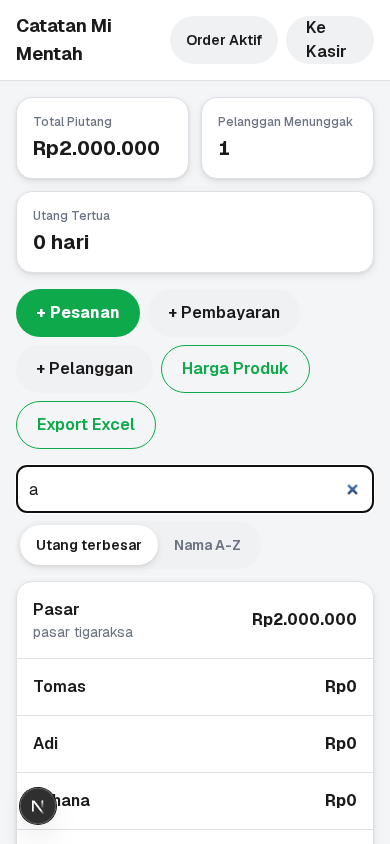
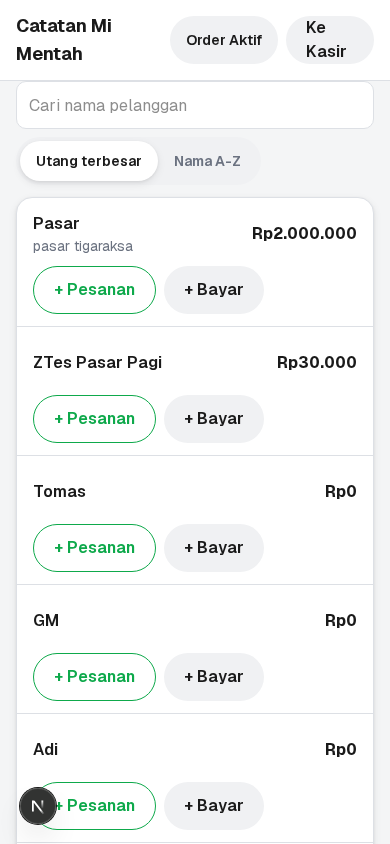
Note: shortcut Mie Pasar, preset kg & nominal, tombol cepat di kartu
- Mie Pasar = Mi Keriting Rp14.000/kg, bertahan saat pelanggan diganti
- Preset 5/10/15/20 kg; preset 50rb-500rb dan Lunas penuh (sisa saldo)
- Kartu pelanggan aktif punya + Pesanan / + Bayar langsung

diff --git a/src/components/note/new-order-form.tsx b/src/components/note/new-order-form.tsx
@@ -6,7 +6,7 @@ import Link from "next/link";
 import type { MieCustomerRow } from "@/lib/mie/get-mie-customers";
 import type { OrderAktifIndicator } from "@/lib/orders/get-order-aktif-indicator";
 import type { MieProductType } from "@/lib/mie/types";
-import { MIE_FIXED_PRODUCT_TYPES, MIE_PRODUCT_LABEL } from "@/lib/mie/types";
+import { MIE_FIXED_PRODUCT_TYPES, MIE_KG_PRESETS, MIE_PASAR_PRESET, MIE_PRODUCT_LABEL } from "@/lib/mie/types";
 import { createMieOrder, getMieAutofillPrice } from "@/app/note/actions";
 import { LinkButton } from "@/components/ui/link-button";
 import { Card } from "@/components/ui/card";
@@ -33,6 +33,10 @@ export function NewOrderForm({
   const [kg, setKg] = useState("");
   const [pricePerKg, setPricePerKg] = useState<number | "">("");
   const [priceManuallyEdited, setPriceManuallyEdited] = useState(false);
+  // While the "Mie Pasar" preset is on, its fixed price must survive a
+  // customer change (the owner often taps the preset first, then picks the
+  // customer) — the per-customer autofill stays out of the way.
+  const [pasarPreset, setPasarPreset] = useState(false);
   const [date, setDate] = useState(todayDateStr());
   const [note, setNote] = useState("");
   const [saving, setSaving] = useState(false);
@@ -54,7 +58,15 @@ export function NewOrderForm({
     // eslint-disable-next-line react-hooks/exhaustive-deps
   }, [customerId, productType]);
 
+  function applyPasarPreset() {
+    setProductType(MIE_PASAR_PRESET.productType);
+    setPricePerKg(MIE_PASAR_PRESET.pricePerKg);
+    setPriceManuallyEdited(true);
+    setPasarPreset(true);
+  }
+
   function handleProductTypeChange(next: MieProductType) {
+    setPasarPreset(false);
     setProductType(next);
     setPriceManuallyEdited(false);
     if (next === "CUSTOM") setPricePerKg("");
@@ -102,6 +114,27 @@ export function NewOrderForm({
 
       <div className="flex-1 overflow-y-auto p-4">
         <div className="mx-auto flex max-w-md flex-col gap-3">
+          <button
+            type="button"
+            onClick={applyPasarPreset}
+            aria-pressed={pasarPreset}
+            className={cn(
+              "rounded-card flex min-h-16 w-full items-center justify-between gap-3 border-2 px-4 py-3 text-left",
+              pasarPreset ? "border-primary bg-primary-soft" : "border-border bg-surface",
+            )}
+          >
+            <span className="flex flex-col">
+              <span className="text-ink text-base font-bold">Mie Pasar</span>
+              <span className="text-ink-muted text-sm">
+                {MIE_PRODUCT_LABEL[MIE_PASAR_PRESET.productType]} · Rp
+                {MIE_PASAR_PRESET.pricePerKg.toLocaleString("id-ID")}/kg
+              </span>
+            </span>
+            <span className={cn("text-sm font-semibold", pasarPreset ? "text-primary-strong" : "text-primary")}>
+              {pasarPreset ? "Dipakai ✓" : "Pakai"}
+            </span>
+          </button>
+
           <Card padded className="flex flex-col gap-3">
             {customers.length === 0 ? (
               <p className="text-ink-muted text-sm">
@@ -118,7 +151,7 @@ export function NewOrderForm({
                   value={customerId}
                   onChange={(e) => {
                     setCustomerId(e.target.value);
-                    setPriceManuallyEdited(false);
+                    if (!pasarPreset) setPriceManuallyEdited(false);
                   }}
                   className="rounded-input border-border h-12 border px-3 text-base"
                 >
@@ -192,11 +225,29 @@ export function NewOrderForm({
                   onChange={(v) => {
                     setPricePerKg(v);
                     setPriceManuallyEdited(true);
+                    if (v !== MIE_PASAR_PRESET.pricePerKg) setPasarPreset(false);
                   }}
                   placeholder="0"
                   className="h-12 text-base"
                 />
               </label>
+            </div>
+
+            <div className="flex flex-wrap gap-2" role="group" aria-label="Pilih cepat jumlah kg">
+              {MIE_KG_PRESETS.map((preset) => (
+                <button
+                  key={preset}
+                  type="button"
+                  onClick={() => setKg(String(preset))}
+                  aria-pressed={kgValid && kgNumber === preset}
+                  className={cn(
+                    "rounded-pill h-12 min-w-16 px-4 text-base font-semibold",
+                    kgValid && kgNumber === preset ? "bg-primary text-white" : "bg-muted text-ink",
+                  )}
+                >
+                  {preset} kg
+                </button>
+              ))}
             </div>
 
             {kgValid && pricePerKg !== "" && (

diff --git a/src/components/note/new-payment-form.tsx b/src/components/note/new-payment-form.tsx
@@ -13,6 +13,8 @@ import { Button } from "@/components/ui/button";
 import { RupiahInput } from "@/components/ui/rupiah-input";
 import { OrderAktifButton } from "@/components/ui/order-aktif-button";
 import { LateOrderBanner } from "@/components/ui/late-order-banner";
+import { cn } from "@/components/ui/cn";
+import { MIE_PAYMENT_PRESETS } from "@/lib/mie/types";
 
 // Payments are deliberately NOT tied to a specific order — picking a
 // customer and typing an amount is the whole flow (see CLAUDE.md-worthy
@@ -30,6 +32,35 @@ export function NewPaymentForm({
   const router = useRouter();
   const [customerId, setCustomerId] = useState(initialCustomerId ?? customers[0]?.id ?? "");
   const [amount, setAmount] = useState<number | "">("");
+  // "Lunas penuh" follows the selected customer: switching customer while
+  // it's on re-fills that customer's own remaining balance.
+  const [payFull, setPayFull] = useState(false);
+
+  const balanceOf = (id: string) => customers.find((c) => c.id === id)?.balance ?? 0;
+  const selectedBalance = balanceOf(customerId);
+
+  function chooseCustomer(id: string) {
+    setCustomerId(id);
+    if (payFull) {
+      const next = balanceOf(id);
+      if (next > 0) setAmount(next);
+      else {
+        setAmount("");
+        setPayFull(false);
+      }
+    }
+  }
+
+  function choosePreset(value: number) {
+    setAmount(value);
+    setPayFull(false);
+  }
+
+  function chooseFull() {
+    if (selectedBalance <= 0) return;
+    setAmount(selectedBalance);
+    setPayFull(true);
+  }
   const [date, setDate] = useState(todayDateStr());
   const [note, setNote] = useState("");
   const [saving, setSaving] = useState(false);
@@ -80,7 +111,7 @@ export function NewPaymentForm({
                 <span className="text-ink-muted text-sm font-medium">Pelanggan</span>
                 <select
                   value={customerId}
-                  onChange={(e) => setCustomerId(e.target.value)}
+                  onChange={(e) => chooseCustomer(e.target.value)}
                   className="rounded-input border-border h-12 border px-3 text-base"
                 >
                   {customers.map((c) => (
@@ -94,8 +125,50 @@ export function NewPaymentForm({
 
             <label className="flex flex-col gap-1">
               <span className="text-ink-muted text-sm font-medium">Nominal dibayar</span>
-              <RupiahInput value={amount} onChange={setAmount} placeholder="0" className="h-12 text-base" />
+              <RupiahInput
+                value={amount}
+                onChange={(v) => {
+                  setAmount(v);
+                  setPayFull(false);
+                }}
+                placeholder="0"
+                className="h-12 text-base"
+              />
             </label>
+
+            <div className="flex flex-wrap gap-2" role="group" aria-label="Pilih cepat nominal">
+              {MIE_PAYMENT_PRESETS.map((preset) => {
+                const active = !payFull && amount === preset;
+                return (
+                  <button
+                    key={preset}
+                    type="button"
+                    onClick={() => choosePreset(preset)}
+                    aria-pressed={active}
+                    className={cn(
+                      "rounded-pill h-12 min-w-20 px-4 text-base font-semibold",
+                      active ? "bg-primary text-white" : "bg-muted text-ink",
+                    )}
+                  >
+                    {preset / 1000}rb
+                  </button>
+                );
+              })}
+              <button
+                type="button"
+                onClick={chooseFull}
+                disabled={selectedBalance <= 0}
+                aria-pressed={payFull}
+                className={cn(
+                  "rounded-pill h-12 px-4 text-base font-semibold disabled:opacity-40",
+                  payFull ? "bg-primary text-white" : "border-primary text-primary border",
+                )}
+              >
+                {selectedBalance > 0
+                  ? `Lunas penuh · Rp${selectedBalance.toLocaleString("id-ID")}`
+                  : "Lunas penuh (tidak ada utang)"}
+              </button>
+            </div>
 
             <label className="flex flex-col gap-1">
               <span className="text-ink-muted text-sm font-medium">Tanggal</span>

diff --git a/src/components/note/customer-list.tsx b/src/components/note/customer-list.tsx
@@ -3,7 +3,8 @@
 import { useMemo, useState } from "react";
 import type { MieCustomerRow } from "@/lib/mie/get-mie-customers";
 import { Card } from "@/components/ui/card";
-import { ListRow } from "@/components/ui/list-row";
+import Link from "next/link";
+import { LinkButton } from "@/components/ui/link-button";
 import { PriceText } from "@/components/ui/price-text";
 import { EmptyState } from "@/components/ui/empty-state";
 import { NoMieCustomerIcon } from "@/components/ui/empty-state-icons";
@@ -20,15 +21,34 @@ function sortRows(rows: MieCustomerRow[], mode: SortMode): MieCustomerRow[] {
   return copy;
 }
 
+// Each card: the name/balance area opens the customer page; active
+// customers also get "+ Pesanan" / "+ Bayar" right on the card, landing on
+// the form with this customer already selected — no detour via the detail
+// page when recording standing up.
 function CustomerRows({ rows }: { rows: MieCustomerRow[] }) {
   return rows.map((c) => (
-    <ListRow key={c.id} roomy asLink={`/note/pelanggan/${c.id}`}>
-      <div className="min-w-0 flex-1">
-        <p className="text-ink text-base font-semibold">{c.name}</p>
-        {c.note && <p className="text-ink-muted text-sm">{c.note}</p>}
-      </div>
-      <PriceText amount={c.balance} weight="primary" />
-    </ListRow>
+    <div
+      key={c.id}
+      className="border-border flex flex-wrap items-center gap-x-3 gap-y-2 border-b px-4 py-3 last:border-b-0"
+    >
+      <Link href={`/note/pelanggan/${c.id}`} className="flex min-h-12 min-w-[12rem] flex-1 items-center gap-3">
+        <span className="min-w-0 flex-1">
+          <span className="text-ink block text-base font-semibold">{c.name}</span>
+          {c.note && <span className="text-ink-muted block text-sm">{c.note}</span>}
+        </span>
+        <PriceText amount={c.balance} weight="primary" />
+      </Link>
+      {c.isActive && (
+        <div className="flex shrink-0 gap-2">
+          <LinkButton href={`/note/pesanan/baru?customerId=${c.id}`} variant="ghost">
+            + Pesanan
+          </LinkButton>
+          <LinkButton href={`/note/pembayaran/baru?customerId=${c.id}`} variant="secondary">
+            + Bayar
+          </LinkButton>
+        </div>
+      )}
+    </div>
   ));
 }
 

diff --git a/src/lib/mie/types.ts b/src/lib/mie/types.ts
@@ -27,6 +27,14 @@ export const MIE_FIXED_PRODUCT_TYPES: Exclude<MieProductType, "CUSTOM">[] = [
   "PANGSIT",
 ];
 
+// Tap-first presets for recording while standing in the production area
+// (CLAUDE.md "Catatan Mi Mentah"). "Mie Pasar" is the daily market order:
+// Mi Keriting at the price the owner specified — a deliberate fixed preset,
+// not the per-customer autofill.
+export const MIE_PASAR_PRESET = { productType: "MIE_KERITING", pricePerKg: 14000 } as const;
+export const MIE_KG_PRESETS = [5, 10, 15, 20];
+export const MIE_PAYMENT_PRESETS = [50000, 100000, 200000, 500000];
+
 export type MieLedgerEntryDTO = {
   id: string;
   kind: MieLedgerKind;
